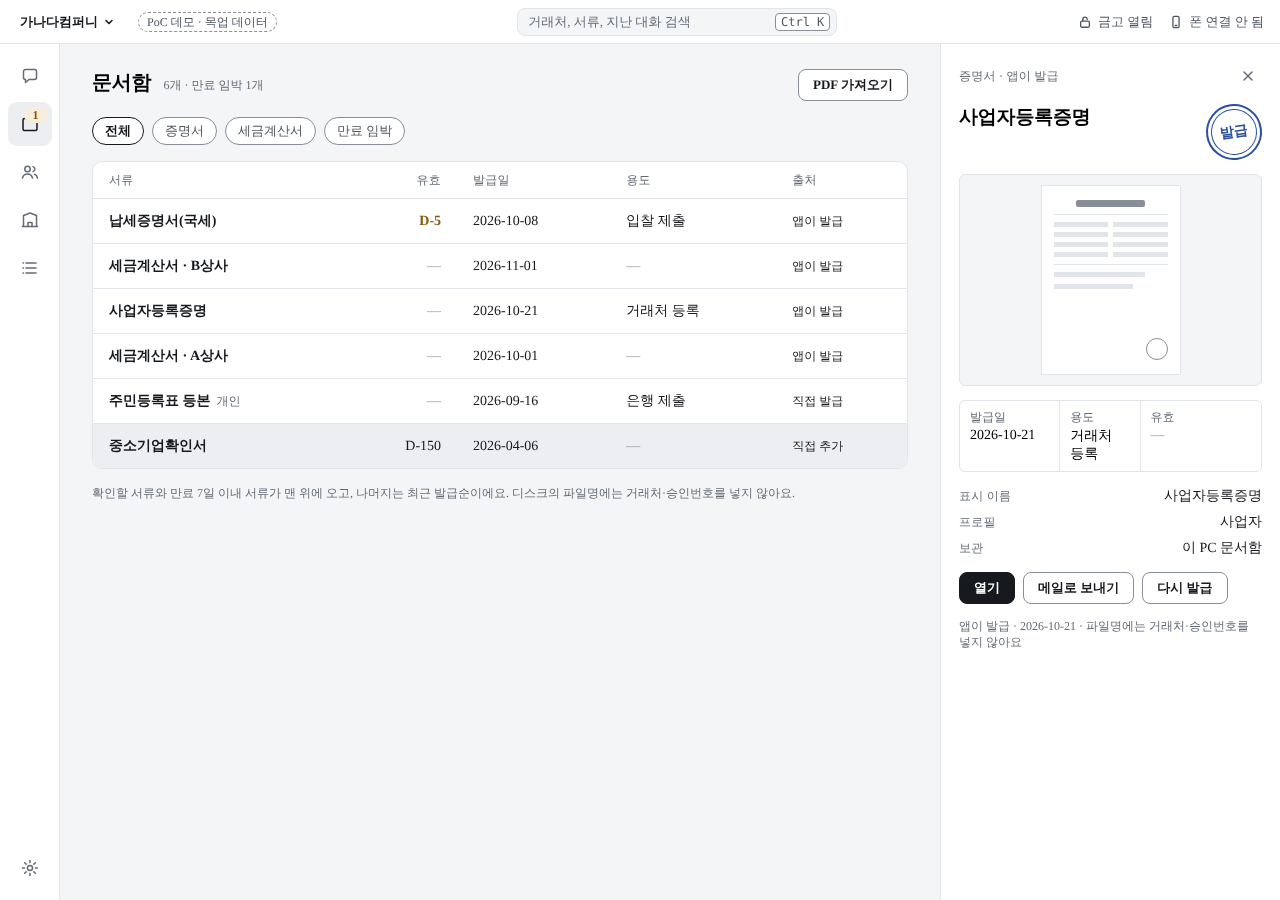
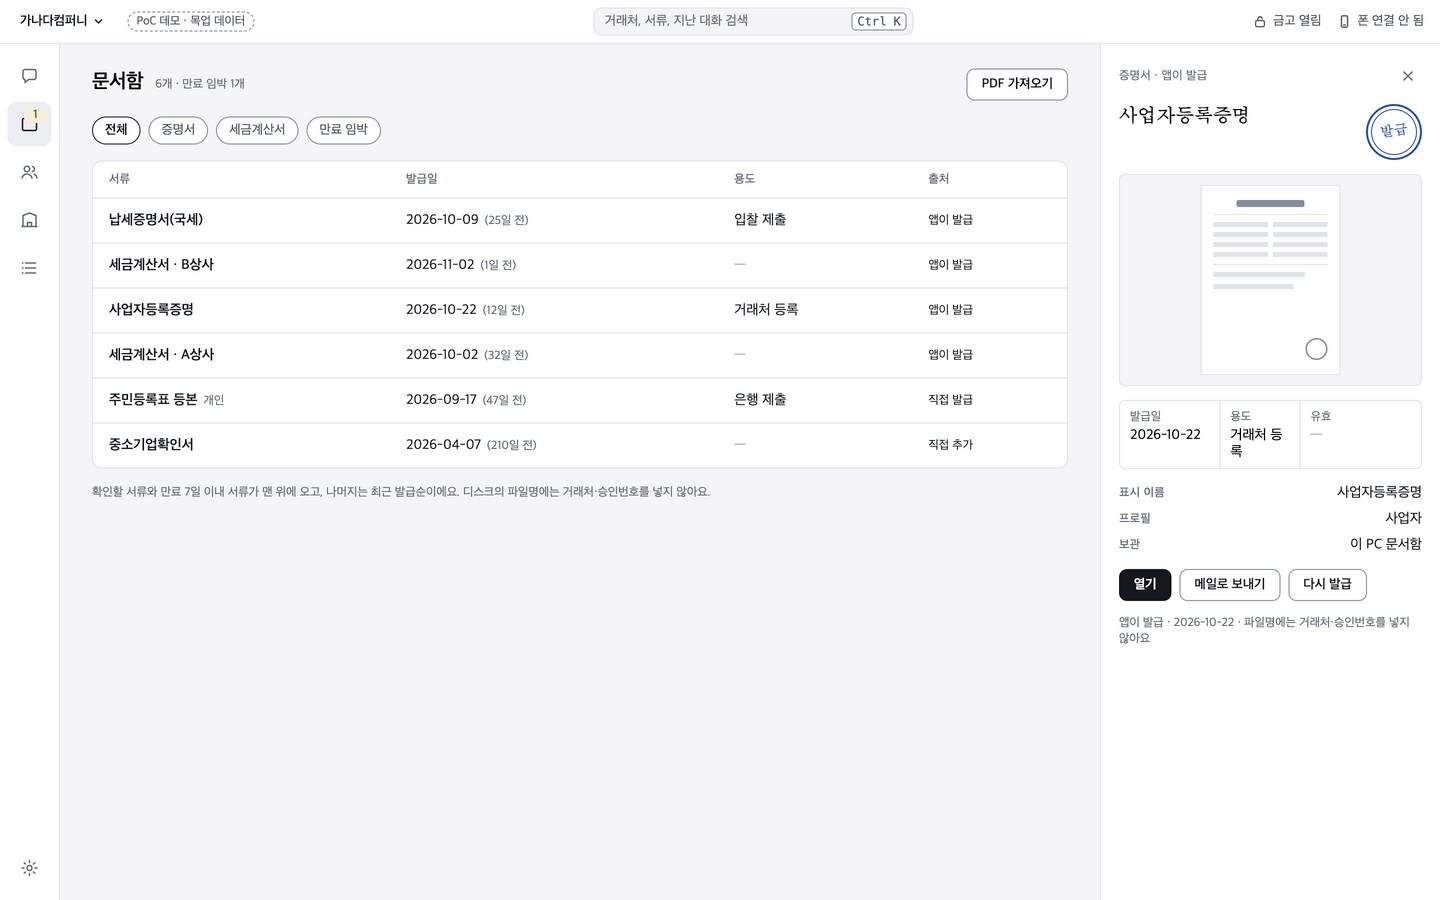
셸 캔버스 후속: 문서함 유효 열 제거·발급일 (n일 전), 설정 발급 인증 목록화 (#24)
* 셸 캔버스 후속: 문서함 유효 열 제거·발급일 (n일 전), 설정 발급 인증 목록화

- 문서함 목록: 유효 열을 빼고 발급일 뒤에 "(n일 전)"·"(오늘)"(agoText). 만료 임박은 거르기·정렬·
  상세 패널에 남는다. 만료일 확실성은 행의 data-expiry-tag로만 두고, 문서함 e2e 목록 행 4항목이 읽게 바꿈.
- 설정 > 발급 인증: 등록한 인증 목록, 기본 하나(칩), [기본으로]·[다시 등록]·[삭제]·[인증 추가]는 목업 알림.
  기본은 프로필의 인증, 나머지 줄은 데모 목업. 엔진·금고·IPC는 그대로.
- PoC-9-design-sync: 격차 표 두 줄과 §4 확인. 미리보기 11·12·16만 맥에서 다시 찍음.

* 셸 설정 메뉴: 폰 연결 → 기기 연결(ADR-020 결정 8), PR #23 병합 뒤 맥 검증 기록

* 셸 설정 발급 인증 목록: 프로필 인증을 종류로 묶어 공동·금융인증서도 맞춤

프로필 인증 문자열(사업자 간편인증·공동·금융인증서·보안카드·발급 인증 미설정)을 종류(simple·card·cert)로
묶어 목업 줄을 거르고 설명을 붙인다. 공동·금융인증서가 기본이면 공동인증서 목업 줄이 겹치지 않고,
미설정이면 기본 줄이 없다(Bugbot 리뷰).

---------

diff --git a/poc/apps/desktop/static/shell/shell.js b/poc/apps/desktop/static/shell/shell.js
@@ -1,7 +1,7 @@
 // PoC-9 데모 셸 렌더러: 메인 대화(단일 세션) · 작업 패널 · 문서함 · 거래처 · 정부24 목업.
 // 승인 바는 main이 대화 열 하단(입력창 위)에 따로 그린다. 렌더러는 그 자리를 비우기만 한다(ADR-021).
 import { g24Card, g24Panel } from './shell-g24.js';
-import { btn, CHIP, chip, dayLabel, dday, ddayText, docCard, docPanel, expiryTag, fmtBiz, h, icon, kv, note, num, pastCard, runPanel, runSteps, steps, summaryCard, taskCard, whereRows } from './shell-views.js';
+import { agoText, btn, CHIP, chip, dayLabel, dday, docCard, docPanel, expiryTag, fmtBiz, h, icon, kv, note, num, pastCard, runPanel, runSteps, steps, summaryCard, taskCard, whereRows } from './shell-views.js';
 
 const call = (m, p) => window.sax.call(m, p);
 const localDate = (d) => `${d.getFullYear()}-${String(d.getMonth() + 1).padStart(2, '0')}-${String(d.getDate()).padStart(2, '0')}`;
@@ -488,14 +488,15 @@ function docsView() {
     h('div', { class: 'filters', role: 'group', 'aria-label': '서류 거르기' }, DOC_FILTERS.map(fb)),
     state.docImport ? passwordRow() : null,
     listTable(
-      [['서류'], ['유효', 'num'], ['발급일'], ['용도'], ['출처']],
-      list.map(({ d, n }) =>
+      [['서류'], ['발급일'], ['용도'], ['출처']],
+      list.map(({ d }) =>
         h(
           'tr',
-          { class: state.panel?.id === d.id ? 'is-on' : null, 'data-doc-row': d.id, onclick: () => openPanel({ kind: 'doc', id: d.id }) },
+          // 만료일 확실성(문서·추정·확인함)은 상세 패널 유효 칸에 보인다. 행에는 속성으로만 둔다(시험이 읽는다).
+          { class: state.panel?.id === d.id ? 'is-on' : null, 'data-doc-row': d.id, 'data-expiry-tag': d.vault && d.expiresOn ? expiryTag(d) : null, onclick: () => openPanel({ kind: 'doc', id: d.id }) },
           h('td', { class: 'name' }, d.name, d.profile === 'personal' ? h('span', { class: 'sx-tag doc-tag' }, '개인') : null, d.vault?.needsUser ? h('span', { class: 'doc-flag' }, '확인 필요') : null),
-          h('td', { class: `num${n !== null && n <= 7 ? ' is-attention' : ''}${n === null ? ' is-none' : ''}` }, ddayText(n), d.vault && d.expiresOn ? h('span', { class: 'sx-tag doc-tag' }, expiryTag(d)) : null),
-          h('td', { class: d.issuedOn ? null : 'is-none' }, d.issuedOn ?? '—'),
+          // 유효 열은 두지 않는다(캔버스 D-01). 만료 임박은 거르기·정렬과 상세 패널에 남는다.
+          h('td', { class: d.issuedOn ? null : 'is-none' }, d.issuedOn ?? '—', d.issuedOn && agoText(d.issuedOn, state.today) ? h('span', { class: 'sx-meta doc-ago' }, agoText(d.issuedOn, state.today)) : null),
           h('td', { class: d.purpose ? null : 'is-none' }, d.purpose || '—'),
           h('td', { class: 'sx-meta' }, d.source),
         ),
@@ -703,19 +704,30 @@ function activityPanel(row) {
   );
 }
 
-const SETTINGS_NAV = ['발급 인증', '승인', '서류 보관', '알림', '폰 연결', '내 데이터'];
-const AUTH_OPTS = [
-  ['사업자 간편인증', '발급할 때마다 폰에서 승인해요'],
-  ['보안카드', '한 번 등록하면 앱이 알아서 입력해요 · 홈택스 아이디 로그인 필요'],
-  ['공동인증서', '비밀번호는 발급할 때마다 직접 입력해요'],
-  ['금융인증서', '6자리 비밀번호를 발급할 때마다 직접 입력해요'],
+const SETTINGS_NAV = ['발급 인증', '승인', '서류 보관', '알림', '기기 연결', '내 데이터'];
+// 프로필 인증 문자열(shell-app SIGN: 사업자 간편인증·공동·금융인증서·보안카드·발급 인증 미설정)을 종류로 묶는다.
+const AUTH_KIND = [
+  ['simple', /^사업자 간편인증/, '발급할 때마다 폰에서 승인해요'],
+  ['card', /^보안카드/, '번호 30개 등록됨 · 앱이 알아서 입력해요 · 홈택스 아이디 로그인'],
+  ['cert', /^(공동|금융|공동·금융)인증서/, '비밀번호는 발급할 때마다 직접 입력해요'],
 ];
+const authKind = (name) => AUTH_KIND.find(([, re]) => re.test(name));
+
+/** 등록한 발급 인증(캔버스 S-02). 기본은 프로필의 인증이고, 나머지 줄은 데모 목업이다(엔진·금고에는 하나만 있다). 미설정이면 기본 줄이 없다. */
+function authList() {
+  const b = state.boot.profiles.business;
+  const main = authKind(b.auth) ? { name: b.auth.replace(/\s*\(([^)]+)\)$/, ' · $1'), kind: authKind(b.auth)[0], main: true } : null;
+  const extra = [
+    { name: '보안카드', kind: 'card', reRegister: true },
+    { name: `공동인증서 · ${b.name}`, kind: 'cert' },
+  ].filter((x) => x.kind !== main?.kind);
+  return [main, ...extra].filter(Boolean).map((x) => ({ ...x, desc: AUTH_KIND.find(([k]) => k === x.kind)[2] }));
+}
 
 /** 설정(캔버스 S-02 · 발급 인증). 이 데모는 보여 주기만 하고 바꾸지 않는다. */
 function settingsView() {
-  const auth = state.boot.profiles.business.auth;
-  const app = /\(([^)]+)\)/.exec(auth)?.[1] ?? '—';
   const mock = () => toast('목업: 이 데모에서는 설정을 바꾸지 않아요');
+  const small = (label, quiet) => h('button', { type: 'button', class: `auth-act${quiet ? ' is-quiet' : ''}`, onclick: mock }, label);
   return h(
     'section',
     { class: 'rail-screen settings', 'data-view': 'settings' },
@@ -729,29 +741,23 @@ function settingsView() {
       'div',
       { class: 'set-body' },
       waitingChip(),
-      h('div', { class: 'set-intro' }, h('h2', { class: 'sx-card-title' }, '발급 인증'), h('p', { class: 'sx-body-sm is-muted' }, '세금계산서와 증명서를 발급할 때 쓰는 인증이에요. 온보딩에서 한 번 고르면 모든 발급에 같은 방법을 쓰고, 바꿀 때는 여기서만 바꿔요.')),
+      h('div', { class: 'set-intro' }, h('h2', { class: 'sx-card-title' }, '발급 인증'), h('p', { class: 'sx-body-sm is-muted' }, '세금계산서와 증명서를 발급할 때 쓰는 인증이에요. 여러 개를 등록해 둘 수 있고, 발급에는 기본 인증을 써요.')),
       h(
         'div',
-        { class: 'sx-card opt-list' },
-        AUTH_OPTS.map(([label, desc]) => {
-          const on = auth.startsWith(label);
-          return h(
-            'button',
-            { type: 'button', class: `sx-opt${on ? ' is-on' : ''}`, 'aria-pressed': String(on), onclick: on ? null : mock },
-            h('span', { class: 'sx-radio' }),
-            h('span', { class: 'opt-main' }, h('span', {}, label), h('span', { class: 'sx-meta' }, on && app !== '—' ? `${app} · ${desc}` : desc)),
-            on ? h('span', { class: 'sx-chip' }, '사용 중') : null,
-          );
-        }),
+        { class: 'sx-card auth-list', 'data-auth-list': '' },
+        authList().map((a) =>
+          h(
+            'div',
+            { class: 'auth-row', 'data-auth-main': a.main ? '' : null },
+            h('span', { class: 'opt-main' }, h('span', { class: 'auth-name' }, a.name), h('span', { class: 'sx-meta' }, a.desc)),
+            a.main ? h('span', { class: 'sx-chip is-done' }, '기본') : small('기본으로'),
+            a.reRegister ? small('다시 등록', true) : null,
+            small('삭제', true),
+          ),
+        ),
       ),
-      kv(
-        [
-          ['인증 앱', app],
-          ['보안카드', '—', { state: 'empty', tag: '등록 안 됨', copy: mock, copyLabel: '등록하기' }],
-        ],
-        true,
-      ),
-      h('p', { class: 'sx-meta' }, '바꾸면 다음 발급부터 적용돼요. 진행 중인 작업은 원래 방법으로 끝내요.'),
+      h('div', { class: 'sx-actions' }, btn([icon('plus'), '인증 추가'], mock), h('span', { class: 'sx-meta' }, '사업자 간편인증(다른 은행 앱)·보안카드·공동인증서·금융인증서를 더할 수 있어요')),
+      h('p', { class: 'sx-meta' }, '기본을 바꾸면 다음 발급부터 적용돼요. 진행 중인 작업은 원래 인증으로 끝내요. 이 데모의 기본 외 줄은 목업이에요.'),
       h('div', { class: 'rule' }),
       h(
         'label',

diff --git a/poc/apps/desktop/src/shell-docs-e2e.ts b/poc/apps/desktop/src/shell-docs-e2e.ts
@@ -63,6 +63,8 @@ function pickNext(file: string | null | 'throw', delay = 0): void {
 type DocRow = { id: string; name: string; issuedOn: string | null; expiresOn: string | null; vault?: { expirySource: string | null; needsUser: boolean; reasons: string[]; subjectMismatch: boolean; suggested: { validUntil?: string } } };
 const listDocs = () => js<DocRow[]>(`window.sax.call('docs.list')`);
 const rowText = (id: string) => js<string>(`document.querySelector('[data-doc-row="${id}"]')?.textContent ?? ''`);
+/** 목록에는 유효 열이 없다(캔버스 D-01). 만료일 확실성은 행의 data-expiry-tag로 본다(화면에서는 상세 패널 유효 칸). */
+const rowTag = (id: string) => js<string>(`document.querySelector('[data-doc-row="${id}"]')?.getAttribute('data-expiry-tag') ?? ''`);
 const toastText = () => js<string>(`(() => { const t = document.querySelector('#toast'); return t && !t.hidden ? t.textContent : ''; })()`);
 const busy = () => js<boolean>(`document.querySelector('[data-act=doc-import]')?.disabled ?? false`);
 /** 메인 창에 실제 입력 하나(main의 before-mouse-event가 본다). 짝 없는 mouseUp이라 아무것도 누르지 않는다. 대화상자·뷰어는 3초 안의 입력 뒤에만 열린다(ADR-027 결정 8). */
@@ -169,7 +171,7 @@ async function main(): Promise<void> {
 
   const t = await importNew(files.tax);
   check('납세증명서: 보관함에 들어가고 문서에서 읽은 만료일, 확인 필요 없음', !!t && t.issuedOn === tax.expected.issuedOn && t.expiresOn === tax.expected.validUntil && t.vault!.expirySource === 'document' && !t.vault!.needsUser, t);
-  check('목록 행: 만료 D-n 옆에 출처(문서)', !!t && (await rowText(t.id)).includes('문서'), t && (await rowText(t.id)));
+  check('목록 행: 발급일 옆 "(n일 전)", 만료일 출처(문서)', !!t && /일 전\)|\(오늘\)/.test(await rowText(t.id)) && (await rowTag(t.id)) === '문서', t && `${await rowText(t.id)} / ${await rowTag(t.id)}`);
   check('가져온 서류의 패널이 열리고 확인 구역이 보인다', !!t && (await js<boolean>(`document.querySelector('[data-doc-review="${t.id}"]')?.offsetParent != null`)));
 
   const n0 = (await listDocs()).length;
@@ -179,7 +181,7 @@ async function main(): Promise<void> {
 
   const b = await importNew(files.biz);
   check('사업자등록증명(다른 사업자): 90일 추정, 확인 필요(subject_mismatch)', !!b && b.vault!.expirySource === 'rule' && b.vault!.needsUser && b.vault!.reasons.includes('subject_mismatch'), b);
-  check('목록 행: 확인 필요 표시와 추정 표시', !!b && /확인 필요/.test(await rowText(b.id)) && /추정/.test(await rowText(b.id)), b && (await rowText(b.id)));
+  check('목록 행: 확인 필요 표시와 추정 표시', !!b && /확인 필요/.test(await rowText(b.id)) && (await rowTag(b.id)) === '추정', b && `${await rowText(b.id)} / ${await rowTag(b.id)}`);
   check('확인 필요 서류가 목록 맨 위', (await js<string>(`document.querySelector('section[data-view=docs] tbody tr')?.getAttribute('data-doc-row') ?? ''`)) === b?.id);
   await js(`document.querySelector('[data-doc-row="${b!.id}"]').click()`);
   await until('review panel', async () => js<boolean>(`!!${review(b!.id, '[data-act=doc-confirm]')}`), 5000);
@@ -190,11 +192,11 @@ async function main(): Promise<void> {
   check('문서 패널에서 바꾸지 않고 확인하면 확인함(대상 표시는 남음)', !!b2 && !b2.vault!.needsUser && b2.vault!.expirySource === 'user' && b2.vault!.subjectMismatch, b2);
   check('바꾸지 않은 확인은 빈 수정으로 보낸다', JSON.stringify(patches.at(-1)) === '{}', patches.at(-1));
   await until('row updated', async () => !/확인 필요/.test(await rowText(b!.id)), 5000);
-  check('목록 행에서 확인 필요가 사라지고 확인함 표시', /확인함/.test(await rowText(b!.id)) && !/확인 필요/.test(await rowText(b!.id)), await rowText(b!.id));
+  check('목록 행에서 확인 필요가 사라지고 확인함 표시', (await rowTag(b!.id)) === '확인함' && !/확인 필요/.test(await rowText(b!.id)), `${await rowText(b!.id)} / ${await rowTag(b!.id)}`);
 
   const a = await importNew(files.amb);
   check('유효기간 줄이 둘인 납세증명서: 규칙보다 이른 문서 후보를 잠정 만료일로(짧은 쪽), 확인 필요', !!a && a.expiresOn === AMB_VALID && a.vault!.expirySource === 'document' && a.vault!.needsUser && a.vault!.reasons.includes('valid_until_ambiguous') && a.vault!.suggested.validUntil === AMB_VALID, a);
-  check('목록 행: 확인 필요 서류의 만료일은 추정', !!a && /추정/.test(await rowText(a.id)), a && (await rowText(a.id)));
+  check('목록 행: 확인 필요 서류의 만료일은 추정', !!a && (await rowTag(a.id)) === '추정', a && `${await rowText(a.id)} / ${await rowTag(a.id)}`);
   const field = (f: string) => js<string>(`${review(a!.id, `[data-field=${f}]`)}?.value ?? ''`);
   const setField = (f: string, v: string) => js(`(() => { const i = ${review(a!.id, `[data-field=${f}]`)}; i.value = '${v}'; i.dispatchEvent(new Event('input')); })()`);
 

diff --git a/poc/apps/desktop/static/shell/shell.css b/poc/apps/desktop/static/shell/shell.css
@@ -171,8 +171,15 @@ body.bar-active .rs-waiting { display: inline-flex; }
 .set-body > .rs-waiting { align-self: flex-end; }
 .set-intro { display: grid; gap: 4px; }
 .set-intro h2 { margin: 0; }
-.set-body .sx-card.opt-list { gap: var(--space-2); }
-.set-body .sx-opt .sx-chip { height: 22px; }
+.auth-list { gap: 0; padding-top: 4px; padding-bottom: 4px; }
+.auth-row { display: flex; align-items: center; gap: 12px; padding: 12px 0; border-bottom: 1px solid var(--line); }
+.auth-row:last-child { border-bottom: 0; }
+.auth-row .opt-main { flex: 1; min-width: 0; }
+.auth-name { font-size: 14px; font-weight: 600; }
+.auth-row .sx-chip { height: 22px; }
+.set-body .sx-btn svg { width: 16px; height: 16px; }
+.auth-act { height: 28px; padding: 0 10px; border: 1px solid var(--line-strong); border-radius: var(--radius-md); background: var(--surface); color: var(--ink-2); font: inherit; font-size: 12px; cursor: pointer; }
+.auth-act.is-quiet { padding: 0 8px; border-color: transparent; background: transparent; color: var(--ink-3); }
 .set-body > p { margin: 0; }
 .rule { height: 1px; background: var(--line); }
 .set-check { display: flex; align-items: flex-start; gap: 12px; }
@@ -187,6 +194,7 @@ body.bar-active .rs-waiting { display: inline-flex; }
 /* 문서함 보관함 서류(PoC-8): 확인 필요 표시, 만료일 출처, 열기 암호 줄, 확인 구역 */
 .doc-flag { margin-left: 8px; font-size: 12px; font-weight: 600; color: var(--attention); }
 .doc-tag { margin-left: 6px; }
+.doc-ago { margin-left: 6px; }
 .doc-pw-row { display: flex; align-items: center; gap: var(--space-2); flex-wrap: wrap; padding: 12px; border: 1px solid var(--line); border-radius: var(--radius-lg); background: var(--surface); }
 .doc-pw-row .sx-note { flex: 1 1 100%; }
 .doc-pw, .doc-in { height: var(--control-height); box-sizing: border-box; padding: 0 10px; border: 1px solid var(--line-strong); border-radius: var(--radius-md); background: var(--surface); color: var(--ink); font: inherit; font-size: 13px; }

diff --git a/poc/apps/desktop/static/shell/shell-views.js b/poc/apps/desktop/static/shell/shell-views.js
@@ -69,6 +69,11 @@ export function dday(s, today) {
   return Math.round((parse(s) - t) / 86400000);
 }
 export const ddayText = (n) => (n === null ? '—' : n < 0 ? '만료됨' : n === 0 ? 'D-day' : `D-${n}`);
+/** 발급일 뒤에 붙는 "(n일 전)". 오늘이면 "(오늘)", 날짜가 없거나 미래면 붙이지 않는다. */
+export function agoText(s, today) {
+  const n = dday(s, today);
+  return n === null || n > 0 ? '' : n === 0 ? '(오늘)' : `(${-n}일 전)`;
+}
 
 // ---- 컴포넌트 ----
 

diff --git a/poc/reports/PoC-9-design-sync.md b/poc/reports/PoC-9-design-sync.md
@@ -24,11 +24,11 @@
 | 완료 카드 | 승인번호 KeyValue, [PDF 열기](주요) [지난번과 같게] [어디로 무엇이 갔나요] | 승인번호 줄, [PDF 열기] [폴더 열기] [지난번과 같게], 접힌 details | 코드([폴더 열기]는 패널로) |
 | 확인 필요 카드 | 없음 | 황토 안내 | 캔버스 추가 |
 | 작업 패널 | 공급자·부가세(초안)·발급 인증이 KeyValue 행, 출처 → "실행 단계" 6단계 | "확인 값" 머리, 합계 행, 발급 인증 별도 줄, 8단계 | 코드. 엔진 단계 8개는 그대로 두고 화면에서만 캔버스 6단계로 묶음(`runSteps`) |
-| 문서함 목록 | 서류·유효·발급일·용도·출처, 테두리 상자, 알약 거르기, 건수 | 표시 이름·종류·프로필·발급일·만료·출처 | 코드(개인 서류는 이름 옆 "개인", 확인 필요·추정·확인함 표시는 그대로) |
+| 문서함 목록 | 서류·발급일(n일 전)·용도·출처, 테두리 상자, 알약 거르기, 건수. 유효 열 없음(캔버스 후속, 2026-11-03) | 표시 이름·종류·프로필·발급일·만료·출처 | 코드(개인 서류는 이름 옆 "개인", 확인 필요 표시는 그대로). 만료 임박은 거르기·정렬·상세 패널에 남음 |
 | 문서함 상세 | 납작한 상세: 종류 → 이름 + 도장 → 미리보기 → 세 칸 → 값 → 버튼 → 출처 | "서류" 머리 아래 카드 + 미리보기 | 코드. 보관함 서류는 확인 구역이 버튼 자리에 옴 |
 | 문서함 확인 필요·열기 암호 | 없음 | PoC-8에서 생김 | 캔버스 추가, 코드 모양 정리 |
 | 거래처·내 사업장·활동 기록 | 없음 | 거래처 목록만, 나머지 빈 화면 | 캔버스 추가(D-02·D-03·S-01), 코드는 이미 가진 데이터로 보여 주기만 |
-| 설정 · 발급 인증 | S-02 | 빈 화면 | 코드: 보여 주기만(바꾸기 없음, 누르면 "목업" 알림) |
+| 설정 · 발급 인증 | S-02: 등록한 인증 목록, 기본 하나(캔버스 후속, 2026-11-03) | 빈 화면 | 코드: 등록 목록과 기본 표시, [기본으로]·[다시 등록]·[삭제]·[인증 추가]는 "목업" 알림. 기본은 프로필의 인증, 나머지 줄은 데모 목업(엔진·금고에는 하나뿐) |
 | 정부24 직접 발급 | 없음 | T-08 목업 2장 | 캔버스 추가, 코드 패널에서 "목업" 배지 뺌(제목줄에 데모 표시가 있음) |
 
 ## 2. 캔버스에 더한 아트보드
@@ -54,3 +54,5 @@
 - 셸 e2e(`pnpm demo:e2e`)는 실행 Chrome이 필요해 리눅스 컨테이너에서는 돌리지 않았다. 셀렉터·문구(`data-run`·`data-act`·"초안과 같아요"·"메일로 보낸 것도 확인했어요" 등)는 유지했다. **Windows·macOS에서 한 번 돌려 확인이 필요하다.**
 - macOS(2026-11-03, origin/main eda3933 병합 뒤): `pnpm build`·`pnpm lint` 통과, `pnpm test` 279 통과·0 실패(Windows 전용 3건 건너뜀), 셸 e2e(`pnpm demo:e2e`) 52/52, 셸 문서함 e2e(`shell-docs-e2e`) 41/41. 시험이 덮어쓴 `reports/raw/` 파일은 되돌렸다.
 - 리뷰 반영: 확인 필요로 끝난 실행이 단계 사이에서 멈췄으면(진행 중 단계 없음) 끝나지 않은 첫 묶음을 "확인 필요"로 표시한다(`runSteps`). 전에는 그 묶음이 "할 일"로 떨어져 멈춘 곳이 안 보였다.
+- 캔버스 후속(2026-11-03): 문서함 목록에서 유효 열을 빼고 발급일에 "(n일 전)"을 붙였다. 만료일 확실성(문서·추정·확인함)은 상세 패널 유효 칸에 보이고, 행에는 `data-expiry-tag`로만 남겨 문서함 e2e의 목록 행 4항목이 그것을 읽게 바꿨다. 설정 > 발급 인증은 등록한 인증 목록과 기본 하나로 바꿨다(바꾸기는 목업). macOS에서 `pnpm build`·`lint` 통과, `pnpm test` 279/0(3 건너뜀), 셸 e2e 52/52, 문서함 e2e 41/41. 미리보기는 바뀐 화면(11·12·16)만 맥에서 다시 찍었다(맥 서체).
+- PR #23(보안 업그레이드, fa6fba1) 병합 뒤 다시: 설정 메뉴 "폰 연결"을 "기기 연결"로(ADR-020 결정 8). macOS `pnpm build`·`lint` 통과, `pnpm test` 384 통과·0 실패(3 건너뜀), 셸 e2e 61/61, 문서함 e2e 42/42.
